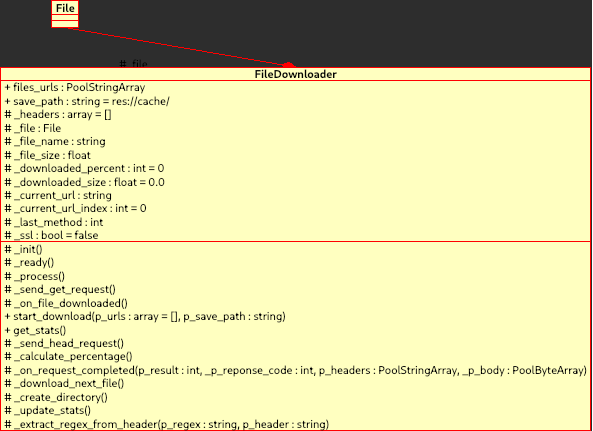
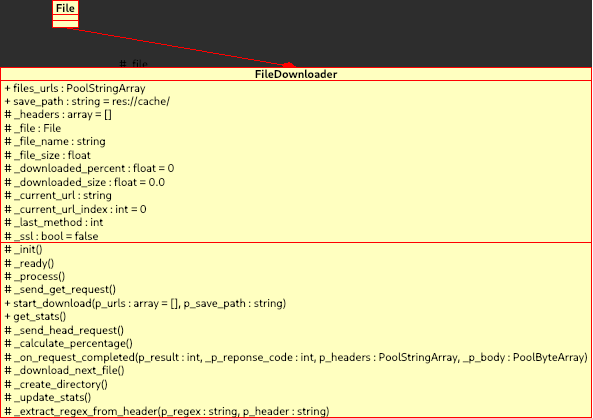
Updated the readme and the class diagram
Wrote the "how to install", "How to use" and "Limitations" sections.

diff --git a/README.md b/README.md
@@ -15,7 +15,36 @@ in Godot.
 
 ## How to install?
 
+1. Download the latest release
+2. Copy the addons folder into your Godot project's folder
+3. Enable the plugin in `Projet`, `Project settings`, `Plugins`.
 
+## How to use?
+
+1. Add a new node to your scene
+2. Search for FileDownloader (It is a child of HTTPRequest)
+3. Add a FileDownloader node in your scene
+4. Clic on node and edit its script variables directly in the editor.
+`File Urls` and `Save_Path`
+5. Now simply call `$FileDownloader.start_download()` somewhere in your script.
+
+*You alternatively can replace the step 4 and 5 by code*
+```
+var url  : PoolStringArray = ["url_to_file1","url_file_2"]
+var path : String          = "user://downloads"
+$FileDownloader.start_download(url, path)
+```
+
+The release ships a demo project. Feel free to run it in Godot and explore it.
+
+## Limitations
+
+For now it seems the FileDownloader doesn't download some files (like .svg)
+This probably comes from the _on_request_completed function which expects to 
+receive specific information. If this information never arrives, it won't start
+the download.
+I should fix this in the future by adding a 'blind' downloading mode. This blind
+mode wouldn't know how big is the file currently downloading until it finishes.
 
 ## More information:
 
